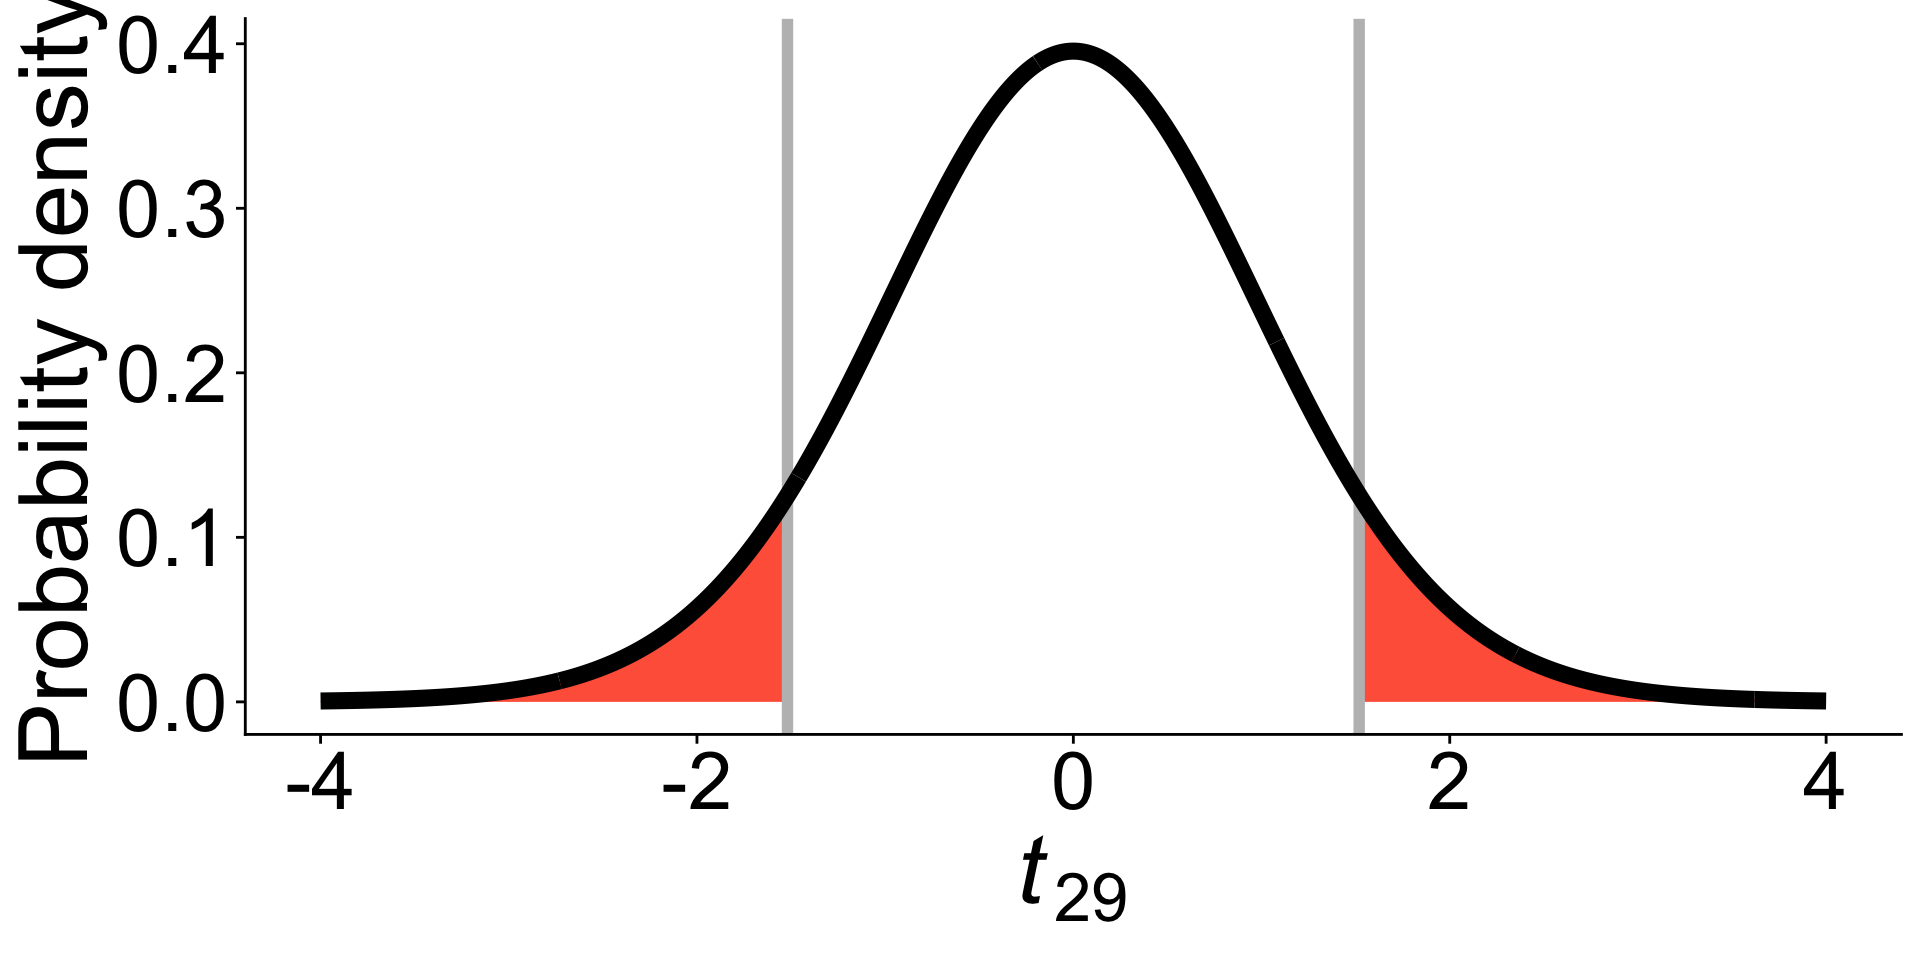
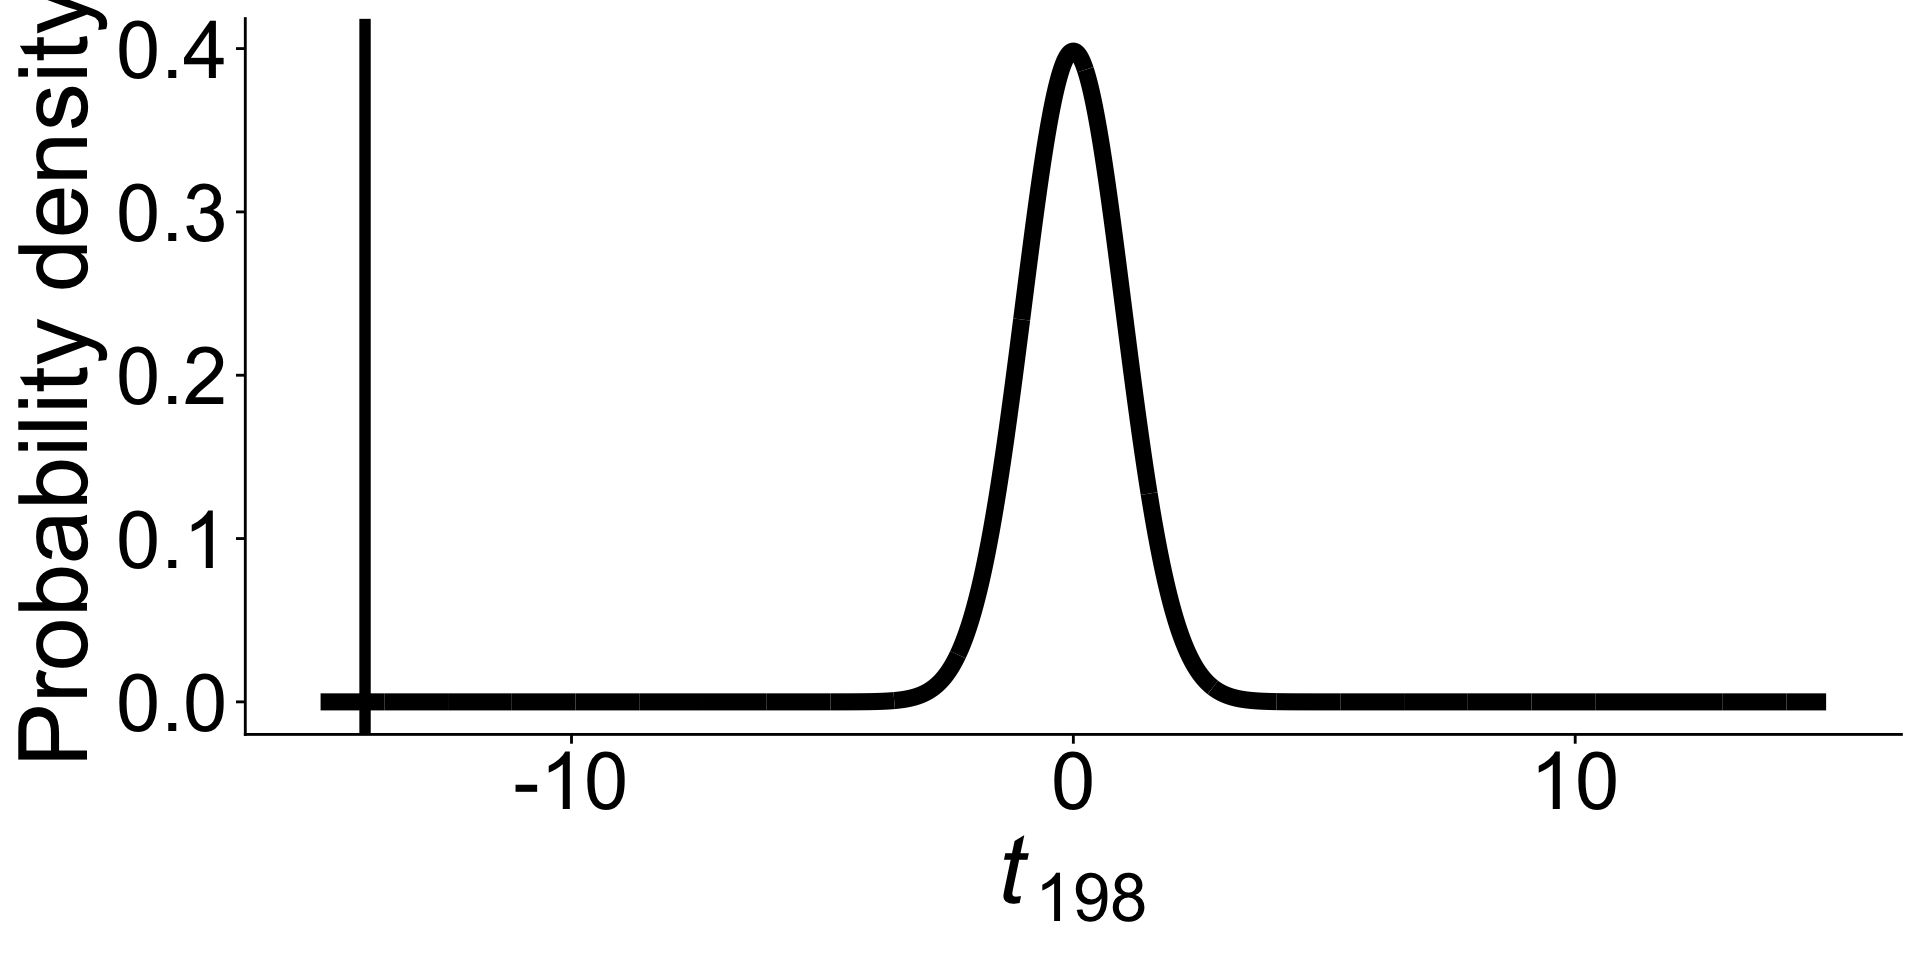
build

diff --git a/docs/lectures/09-t-test-slides.html b/docs/lectures/09-t-test-slides.html
@@ -198,12 +198,6 @@
 </div>
 
 </section>
-<section id="la-hua-ʻōlelo-o-ka-pule" class="slide level2">
-<h2>La hua ʻōlelo o ka pule</h2>
-<div style="text-align: center;">
-<p><span class="alert">lapu</span></p>
-</div>
-</section>
 <section id="learning-objectives" class="slide level2">
 <h2>Learning Objectives</h2>
 <ol type="1">
@@ -660,18 +654,16 @@ mean of x
 <li>“The standard deviation (and variance) of the numerical variable is the same in both populations” (we will eventually relax this assumption)</li>
 </ul>
 </section>
-<section id="cost-of-resistance-to-aphids-in-lettuce" class="slide level2">
-<h2>Cost of resistance to Aphids in lettuce</h2>
+<section id="effect-of-noni-on-inflamation" class="slide level2">
+<h2>Effect of noni on inflamation</h2>
 <ul>
-<li>Some lettuce genotypes are <em>Susceptible</em> and others are <em>Resistant</em> to aphids.</li>
-<li>Why isn’t all lettuce resistant to aphids?</li>
-<li>Let us test the hypothesis that resistant lettuce has lower fitness in the absence of aphids.</li>
-<li>Fitness = number of seeds per plant</li>
+<li>Returning to a well-known hypothetical study</li>
+<li>Does administering noni reduce inflammation as measured by a change in sedimentation rate?</li>
 </ul>
 <table class="caption-top">
 <thead>
 <tr class="header">
-<th style="text-align: center;">Genotype</th>
+<th style="text-align: center;">Treatment</th>
 <th style="text-align: center;"><span class="math inline">\(\overline{Y}_i\)</span></th>
 <th style="text-align: left;"><span class="math inline">\(s_i\)</span></th>
 <th style="text-align: center;"><span class="math inline">\(n_i\)</span></th>
@@ -679,112 +671,39 @@ mean of x
 </thead>
 <tbody>
 <tr class="odd">
-<td style="text-align: center;">Susceptible</td>
-<td style="text-align: center;">720</td>
-<td style="text-align: left;">223.6</td>
-<td style="text-align: center;">15</td>
+<td style="text-align: center;">placebo</td>
+<td style="text-align: center;">-0.038</td>
+<td style="text-align: left;">0.958</td>
+<td style="text-align: center;">100</td>
 </tr>
 <tr class="even">
-<td style="text-align: center;">Resistant</td>
-<td style="text-align: center;">582</td>
-<td style="text-align: left;">277.3</td>
-<td style="text-align: center;">16</td>
+<td style="text-align: center;">10 mg noni</td>
+<td style="text-align: center;">-1.891</td>
+<td style="text-align: left;">0.898</td>
+<td style="text-align: center;">100</td>
 </tr>
 </tbody>
 </table>
 </section>
-<section>
-<section id="parameter-estimation-and-confidence-intervals" class="title-slide slide level1 center">
-<h1>Parameter estimation and confidence intervals</h1>
-
-</section>
-<section id="standard-error-of-the-difference-in-means" class="slide level2">
-<h2>Standard error of the difference in means</h2>
-<table class="caption-top">
-<thead>
-<tr class="header">
-<th style="text-align: center;">Genotype</th>
-<th style="text-align: center;"><span class="math inline">\(\overline{Y}_i\)</span></th>
-<th style="text-align: left;"><span class="math inline">\(s_i\)</span></th>
-<th style="text-align: center;"><span class="math inline">\(n_i\)</span></th>
-</tr>
-</thead>
-<tbody>
-<tr class="odd">
-<td style="text-align: center;">Susceptible</td>
-<td style="text-align: center;">720</td>
-<td style="text-align: left;">223.6</td>
-<td style="text-align: center;">15</td>
-</tr>
-<tr class="even">
-<td style="text-align: center;">Resistant</td>
-<td style="text-align: center;">582</td>
-<td style="text-align: left;">277.3</td>
-<td style="text-align: center;">16</td>
-</tr>
-</tbody>
-</table>
-<p>The pooled sample variance is <span class="math inline">\(s_p^2 = \frac{\mathit{df}_1 s_1^2 + \mathit{df}_2 s_2^2}{\mathit{df}_1 +\mathit{df}_2}\)</span></p>
-<p><span class="math inline">\(s^2_1\)</span> is the sample variance of sample 1</p>
-<p><span class="math inline">\(s^2_2\)</span> is the sample variance of sample 2</p>
-<p><span class="math inline">\(\mathit{df}_1 = n_1 - 1\)</span>; <span class="math inline">\(\mathit{df}_2 = n_2 - 1\)</span>;</p>
-<p>total degrees of freedom for <span class="math inline">\(t\)</span> distribution: <span class="math inline">\(\mathit{df} = \mathit{df}_1 +\mathit{df}_2\)</span></p>
-<p><span class="math display">\[s_p^2 = \frac{14 \times 223.6 ^2 + 15 \times 277.3^2}{14 + 15} = 63909.889310\]</span></p>
-</section>
-<section id="standard-error-of-the-difference-in-means-1" class="slide level2">
-<h2>Standard error of the difference in means</h2>
-<table class="caption-top">
-<thead>
-<tr class="header">
-<th style="text-align: center;">Genotype</th>
-<th style="text-align: center;"><span class="math inline">\(\overline{Y}_i\)</span></th>
-<th style="text-align: left;"><span class="math inline">\(s_i\)</span></th>
-<th style="text-align: center;"><span class="math inline">\(n_i\)</span></th>
-</tr>
-</thead>
-<tbody>
-<tr class="odd">
-<td style="text-align: center;">Susceptible</td>
-<td style="text-align: center;">720</td>
-<td style="text-align: left;">223.6</td>
-<td style="text-align: center;">15</td>
-</tr>
-<tr class="even">
-<td style="text-align: center;">Resistant</td>
-<td style="text-align: center;">582</td>
-<td style="text-align: left;">277.3</td>
-<td style="text-align: center;">16</td>
-</tr>
-</tbody>
-</table>
-<p>The standard error of the difference in means is <span class="math inline">\(\mathrm{SE}_{\overline{Y}_1 - \overline{Y}_2} = \sqrt{s_p^2 (\frac{1}{n_1} + \frac{1}{n_2})}\)</span></p>
-<p><span class="math display">\[\mathrm{SE}_{\overline{Y}_1 - \overline{Y}_2} = \sqrt{63909.889310 (\frac{1}{15} + \frac{1}{16})} = 90.8571812\]</span></p>
-</section>
-<section id="confidence-intervals-for-difference-in-means-1" class="slide level2">
-<h2>95% confidence intervals for difference in means</h2>
-<p><span class="math display">\[(\overline{Y}_1 - \overline{Y}_2)-t_{0.05(2),\mathit{df}} \text{SE}_{\overline{Y}_1 - \overline{Y}_2} &lt; (\mu_1 - \mu_2) &lt; (\overline{Y}_1 - \overline{Y}_2)+t_{0.05(2),\mathit{df}} \text{SE}_{\overline{Y}_1 - \overline{Y}_2}\]</span></p>
-<p><span class="math inline">\(\mathit{df} = 29\)</span></p>
-<p><span class="math inline">\(t_{0.05(2),\mathit{29}} = 2.0452296\)</span></p>
-<p>Lower CI:</p>
-<p><span class="math display">\[(720 - 582) - 2.0452296 \times 90.8571812 = -47.8238001\]</span></p>
-<p>Upper CI:</p>
-<p><span class="math display">\[(720 - 582) + 2.0452296 \times 90.8571812 = 323.8238001\]</span></p>
-</section>
-<section id="confidence-intervals-for-difference-in-means-2" class="slide level2">
-<h2>95% confidence intervals for difference in means</h2>
-<p>We estimated the susceptible genotypes produce an average of 720 - 582 = 138 more seeds, but our 95% CI is -48 to 324.</p>
-<p>0 difference in fitness between genotypes is within the plausible range of values given our data.</p>
-</section></section>
-<section>
-<section id="hypothesis-testing" class="title-slide slide level1 center">
-<h1>Hypothesis testing</h1>
-
+<section id="hypothesis-testing" class="slide level2">
+<h2>Hypothesis testing</h2>
+<ol type="1">
+<li><p>State null and alternative hypotheses</p></li>
+<li><p>Calculate test statistic</p></li>
+<li><p>Identify null distribution</p></li>
+<li><p>Calculate <span class="math inline">\(P\)</span>-value</p></li>
+<li><p>Decide:</p>
+<ul>
+<li>Reject null</li>
+<li>Fail to reject null</li>
+</ul></li>
+</ol>
 </section>
 <section id="null-and-alternative-hypotheses-1" class="slide level2">
 <h2>1. Null and alternative hypotheses</h2>
 <p><span class="math inline">\(H_0\)</span>: <span class="math inline">\(\mu_1 = \mu_2\)</span></p>
 <p><span class="math inline">\(H_A\)</span>: <span class="math inline">\(\mu_1 \ne \mu_2\)</span></p>
-<p>In our case, the mean fitness of resistant and susceptible lettuce genotypes is the same.</p>
+<p>In our case, <span class="math inline">\(H_0\)</span> is the mean change in sed rate is the same for the placebo and noni groups.</p>
 </section>
 <section id="the-t-test-statistic-1" class="slide level2">
 <h2>2. The <span class="math inline">\(t\)</span> test statistic</h2>
@@ -792,7 +711,7 @@ mean of x
 <table class="caption-top">
 <thead>
 <tr class="header">
-<th style="text-align: center;">Genotype</th>
+<th style="text-align: center;">Treatment</th>
 <th style="text-align: center;"><span class="math inline">\(\overline{Y}_i\)</span></th>
 <th style="text-align: left;"><span class="math inline">\(s_i\)</span></th>
 <th style="text-align: center;"><span class="math inline">\(n_i\)</span></th>
@@ -800,32 +719,46 @@ mean of x
 </thead>
 <tbody>
 <tr class="odd">
-<td style="text-align: center;">Susceptible</td>
-<td style="text-align: center;">720</td>
-<td style="text-align: left;">223.6</td>
-<td style="text-align: center;">15</td>
+<td style="text-align: center;">placebo</td>
+<td style="text-align: center;">-0.038</td>
+<td style="text-align: left;">0.958</td>
+<td style="text-align: center;">100</td>
 </tr>
 <tr class="even">
-<td style="text-align: center;">Resistant</td>
-<td style="text-align: center;">582</td>
-<td style="text-align: left;">277.3</td>
-<td style="text-align: center;">16</td>
+<td style="text-align: center;">10 mg noni</td>
+<td style="text-align: center;">-1.891</td>
+<td style="text-align: left;">0.898</td>
+<td style="text-align: center;">100</td>
 </tr>
 </tbody>
 </table>
-<p><span class="math display">\[t = \frac{720 - 582}{90.8571812} = 1.5188673\]</span></p>
+<p><span class="math display">\[t = \frac{-0.038 - (-1.891)}{\text{SE}_{\overline{Y}_{placebo} - \overline{Y}_{noni}}},~~~\text{but how do we get } \text{SE}_{\overline{Y}_{placebo} - \overline{Y}_{noni}} \text{?}\]</span></p>
+</section>
+<section id="the-t-test-statistic-2" class="slide level2">
+<h2>2. The <span class="math inline">\(t\)</span> test statistic</h2>
+<p><span class="math display">\[
+\text{SE}_{\overline{Y}_{1} - \overline{Y}_{2}} = \sqrt{\frac{s_{pooled}^2}{n_{1}} + \frac{s_{pooled}^2}{n_{2}}}
+\]</span></p>
+<div class="fragment">
+<p><span class="math display">\[
+s_{pooled}^2 = \frac{\mathit{df}_1 s_1^2 + \mathit{df}_2 s_2^2}{\mathit{df}_1 +\mathit{df}_2}
+\]</span></p>
+</div>
+<div class="fragment">
+<p><span class="math display">\[\mathit{df}_1 = n_1 - 1;~~\mathit{df}_2 = n_2 - 1\]</span></p>
+</div>
 </section>
 <section id="the-t-distribution-is-the-sampling-distribution-for-t-2" class="slide level2">
 <h2>3. The <span class="math inline">\(t\)</span> distribution is the sampling distribution for <span class="math inline">\(t\)</span></h2>
 <p>Degrees of freedom: <span class="math inline">\(\mathit{df}_1 = n_1 - 1\)</span>; <span class="math inline">\(\mathit{df}_2 = n_2 - 1\)</span>;</p>
 <p>total degrees of freedom for <span class="math inline">\(t\)</span> distribution: <span class="math inline">\(\mathit{df} = \mathit{df}_1 +\mathit{df}_2\)</span></p>
-<p>For our study, <span class="math inline">\((15 - 1) + (16 - 1) = 29\)</span> degrees of freedom</p>
-<p>The <span class="math inline">\(t_{29}\)</span> distribution looks like this:</p>
+<p>For our study, <span class="math inline">\((100 - 1) + (100 - 1) = 198\)</span> degrees of freedom</p>
+<p>The <span class="math inline">\(t_{198}\)</span> distribution looks like this:</p>
 <div class="cell" data-layout-align="center">
 <div class="cell-output-display">
 <div class="quarto-figure quarto-figure-center">
 <figure>
-<p><img data-src="09-t-test-slides_files/figure-revealjs/unnamed-chunk-11-1.png" class="quarto-figure quarto-figure-center" style="width:5in"></p>
+<p><img data-src="09-t-test-slides_files/figure-revealjs/unnamed-chunk-12-1.png" class="quarto-figure quarto-figure-center" style="width:5in"></p>
 </figure>
 </div>
 </div>
@@ -837,7 +770,7 @@ mean of x
 <div class="cell-output-display">
 <div class="quarto-figure quarto-figure-center">
 <figure>
-<p><img data-src="09-t-test-slides_files/figure-revealjs/unnamed-chunk-12-1.png" class="quarto-figure quarto-figure-center" style="width:5in"></p>
+<p><img data-src="09-t-test-slides_files/figure-revealjs/unnamed-chunk-13-1.png" class="quarto-figure quarto-figure-center" style="width:5in"></p>
 </figure>
 </div>
 </div>
@@ -848,21 +781,19 @@ mean of x
 <p>For a two-tailed test (most common)</p>
 <div class="cell">
 <div class="sourceCode cell-code" id="cb9"><pre class="sourceCode numberSource r number-lines code-with-copy"><code class="sourceCode r"><span id="cb9-1"><a href=""></a>P_value <span class="ot">&lt;-</span> <span class="dv">2</span> <span class="sc">*</span> <span class="fu">pt</span>(</span>
-<span id="cb9-2"><a href=""></a>  <span class="at">q =</span> <span class="fl">1.518867</span>,</span>
-<span id="cb9-3"><a href=""></a>  <span class="at">df =</span> <span class="dv">29</span>,</span>
-<span id="cb9-4"><a href=""></a>  <span class="at">lower.tail =</span> <span class="cn">FALSE</span></span>
-<span id="cb9-5"><a href=""></a>)</span>
-<span id="cb9-6"><a href=""></a></span>
-<span id="cb9-7"><a href=""></a>P_value</span></code><button title="Copy to Clipboard" class="code-copy-button"><i class="bi"></i></button></pre></div>
+<span id="cb9-2"><a href=""></a>    <span class="at">q =</span> <span class="sc">-</span><span class="fl">14.114</span>,</span>
+<span id="cb9-3"><a href=""></a>    <span class="at">df =</span> <span class="dv">198</span></span>
+<span id="cb9-4"><a href=""></a>)</span>
+<span id="cb9-5"><a href=""></a></span>
+<span id="cb9-6"><a href=""></a>P_value</span></code><button title="Copy to Clipboard" class="code-copy-button"><i class="bi"></i></button></pre></div>
 <div class="cell-output cell-output-stdout">
-<pre><code>[1] 0.139624</code></pre>
+<pre><code>[1] 9.293562e-32</code></pre>
 </div>
 </div>
 </section>
 <section id="decide-1" class="slide level2">
 <h2>5. Decide</h2>
-<p>Since <span class="math inline">\(P = 0.14\)</span> is greater than <span class="math inline">\(\alpha = 0.05\)</span>, we fail to reject the null hypothesis.</p>
-<p>We don’t have enough evidence to conclude that susceptible genotypes of lettuc have greater fitness than resistant genotypes in the absence of aphids.</p>
+<p>Since <span class="math inline">\(P \approx 0\)</span> is less than <span class="math inline">\(\alpha = 0.05\)</span>, we reject the null hypothesis.</p>
 </section>
 <section id="difference-between-two-sample-t-test-and-welchs-t-test" class="slide level2">
 <h2>Difference between <span class="alert">Two-sample <span class="math inline">\(t\)</span>-test</span> and <span class="alert">Welch’s <span class="math inline">\(t\)</span>-test</span></h2>
@@ -871,24 +802,40 @@ mean of x
 <section id="difference-between-two-sample-t-test-and-welchs-t-test-1" class="slide level2">
 <h2>Difference between <span class="alert">Two-sample <span class="math inline">\(t\)</span>-test</span> and <span class="alert">Welch’s <span class="math inline">\(t\)</span>-test</span></h2>
 <p><span class="alert">Welch’s <span class="math inline">\(t\)</span>-test</span> is the default in <em>R</em></p>
+<div class="columns">
+<div class="column" style="width:30%;">
 <div class="cell">
-<div class="sourceCode cell-code" id="cb11"><pre class="sourceCode numberSource r number-lines code-with-copy"><code class="sourceCode r"><span id="cb11-1"><a href=""></a><span class="fu">t.test</span>(dat<span class="sc">$</span>n_seeds <span class="sc">~</span> dat<span class="sc">$</span>genotype)</span></code><button title="Copy to Clipboard" class="code-copy-button"><i class="bi"></i></button></pre></div>
+<div class="sourceCode cell-code" id="cb11"><pre class="sourceCode numberSource r number-lines code-with-copy"><code class="sourceCode r"><span id="cb11-1"><a href=""></a><span class="fu">head</span>(noni_dat)</span></code><button title="Copy to Clipboard" class="code-copy-button"><i class="bi"></i></button></pre></div>
+<div class="cell-output cell-output-stdout">
+<pre><code>         sed     group
+1 -2.6264538 10mg noni
+2 -1.8163567 10mg noni
+3 -2.8356286 10mg noni
+4 -0.4047192 10mg noni
+5 -1.6704922 10mg noni
+6 -2.8204684 10mg noni</code></pre>
+</div>
+</div>
+</div><div class="column" style="width:70%;">
+<div class="cell">
+<div class="sourceCode cell-code" id="cb13"><pre class="sourceCode numberSource r number-lines code-with-copy"><code class="sourceCode r"><span id="cb13-1"><a href=""></a><span class="fu">t.test</span>(sed <span class="sc">~</span> group, <span class="at">data =</span> noni_dat)</span></code><button title="Copy to Clipboard" class="code-copy-button"><i class="bi"></i></button></pre></div>
 <div class="cell-output cell-output-stdout">
 <pre><code>
     Welch Two Sample t-test
 
-data:  dat$n_seeds by dat$genotype
-t = -1.5296, df = 28.39, p-value = 0.1372
-alternative hypothesis: true difference in means between group Resistant and group Susceptible is not equal to 0
+data:  sed by group
+t = -14.114, df = 197.19, p-value &lt; 2.2e-16
+alternative hypothesis: true difference in means between group 10mg noni and group placebo is not equal to 0
 95 percent confidence interval:
- -322.68656   46.68656
+ -2.112261 -1.594348
 sample estimates:
-  mean in group Resistant mean in group Susceptible 
-                      582                       720 </code></pre>
+mean in group 10mg noni   mean in group placebo 
+            -1.89111263             -0.03780808 </code></pre>
 </div>
 </div>
+</div></div>
 
-</section></section>
+</section>
     </div>
   <div class="quarto-auto-generated-content" style="display: none;">
 <div class="footer footer-default">
